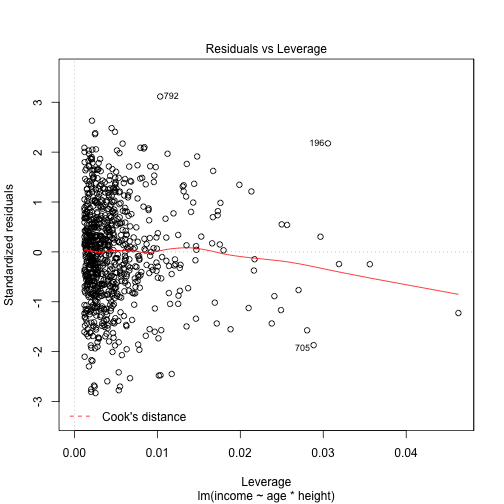
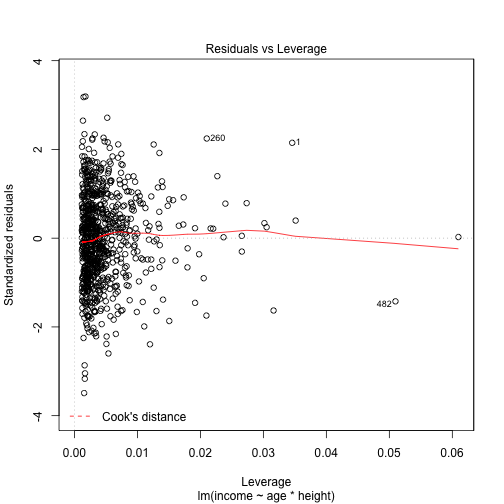
dunno

diff --git a/_sessions/StatisticsII/StatisticsII.html b/_sessions/StatisticsII/StatisticsII.html
@@ -275,7 +275,7 @@ lm(formula = income ~ age*height,
 ## 
 ## Coefficients:
 ## (Intercept)          age       height   age:height  
-##   -1268.853      196.356       12.301       -0.265
+##     27.1339     164.5202       4.2136      -0.0796
 ```
 
 &lt;br&gt;
@@ -288,7 +288,7 @@ lm(formula = income ~ age*height,
 ## 
 ## Coefficients:
 ## (Intercept)          age       height   age:height  
-##   -1268.853      196.356       12.301       -0.265
+##     27.1339     164.5202       4.2136      -0.0796
 ```
 
 
@@ -324,20 +324,20 @@ summary(my_lm)
 ## 
 ## Residuals:
 ##    Min     1Q Median     3Q    Max 
-##  -3410   -791     38    811   3737 
+##  -4177   -846      5    814   3819 
 ## 
 ## Coefficients:
 ##              Estimate Std. Error t value Pr(&gt;|t|)    
-## (Intercept) -1268.853   1673.777   -0.76     0.45    
-## age           196.356     34.301    5.72  1.5e-08 ***
-## height         12.301      9.752    1.26     0.21    
-## age:height     -0.265      0.200   -1.32     0.19    
+## (Intercept)   27.1339  1665.2478    0.02     0.99    
+## age          164.5202    34.4881    4.77  2.2e-06 ***
+## height         4.2136     9.7622    0.43     0.67    
+## age:height    -0.0796     0.2023   -0.39     0.69    
 ## ---
 ## Signif. codes:  0 '***' 0.001 '**' 0.01 '*' 0.05 '.' 0.1 ' ' 1
 ## 
-## Residual standard error: 1210 on 827 degrees of freedom
-## Multiple R-squared:  0.813,	Adjusted R-squared:  0.812 
-## F-statistic: 1.19e+03 on 3 and 827 DF,  p-value: &lt;2e-16
+## Residual standard error: 1200 on 840 degrees of freedom
+## Multiple R-squared:  0.799,	Adjusted R-squared:  0.799 
+## F-statistic: 1.12e+03 on 3 and 840 DF,  p-value: &lt;2e-16
 ```
 
 ]
@@ -388,7 +388,7 @@ my_lm$coefficients
 
 ```
 ## (Intercept)         age      height  age:height 
-##  -1268.8530    196.3558     12.3013     -0.2646
+##    27.13390   164.52019     4.21365    -0.07961
 ```
 
 ```r
@@ -397,15 +397,15 @@ my_lm$residuals
 ```
 
 ```
-##        1        2        3        4        5 
-##   747.26  -537.87  -227.70  1433.16   471.66 
-##        6        7        8        9       10 
-##  2040.59 -1666.15  -152.92   159.11 -1840.21 
-##       11       12       13       14       15 
-##  1184.20  2448.75   -39.81  -105.09  1093.26 
-##       16       17       18       19       20 
-##  -510.67 -1325.60   122.33  1328.86  -389.81 
-##  [ reached getOption("max.print") -- omitted 811 entries ]
+##         1         2         3         4         5 
+##  2528.268  -903.684  1372.656 -1324.612  -722.963 
+##         6         7         8         9        10 
+##  1224.138 -1378.356     3.574  -698.069 -2038.029 
+##        11        12        13        14        15 
+##  2653.648  1653.492   211.200  -524.399   216.216 
+##        16        17        18        19        20 
+##   886.419  -919.953   443.967  -364.201   743.919 
+##  [ reached getOption("max.print") -- omitted 824 entries ]
 ```
 
 ]
@@ -478,11 +478,11 @@ my_glm
 ## 
 ## Coefficients:
 ## (Intercept)          age       height   age:height  
-##   -1.82e+01    -1.25e-01     1.08e-01     7.03e-04  
+##   -2.13e+01    -3.77e-02     1.25e-01     2.07e-04  
 ## 
-## Degrees of Freedom: 830 Total (i.e. Null);  827 Residual
-## Null Deviance:	    1150 
-## Residual Deviance: 803 	AIC: 811
+## Degrees of Freedom: 843 Total (i.e. Null);  840 Residual
+## Null Deviance:	    1170 
+## Residual Deviance: 844 	AIC: 852
 ```
 
 ]
@@ -517,11 +517,11 @@ anova(my_an)
 ## Analysis of Variance Table
 ## 
 ## Response: income
-##                   Df   Sum Sq  Mean Sq F value Pr(&gt;F)
-## education          3 1.88e+07  6260609    0.81   0.49
-## height             1 5.61e+05   561337    0.07   0.79
-## education:height   3 3.21e+07 10703908    1.38   0.25
-## Residuals        823 6.36e+09  7732972
+##                   Df   Sum Sq Mean Sq F value Pr(&gt;F)
+## education          3 4.07e+06 1357301    0.19   0.90
+## height             1 4.45e+03    4451    0.00   0.98
+## education:height   3 2.18e+07 7282295    1.02   0.38
+## Residuals        836 5.98e+09 7148900
 ```
 
 ]
@@ -561,21 +561,21 @@ my_an
 ## 
 ## Coefficients:
 ##                       (Intercept)  
-##                          10414.51  
+##                           7143.28  
 ##        educationobligatory_school  
-##                          -8537.80  
+##                           -648.35  
 ##                   educationSEK_II  
-##                          -1895.94  
+##                          -7250.41  
 ##                  educationSEK_III  
-##                          -3098.55  
+##                           2048.89  
 ##                            height  
-##                            -16.07  
+##                              2.21  
 ## educationobligatory_school:height  
-##                             47.77  
+##                              2.75  
 ##            educationSEK_II:height  
-##                              8.35  
+##                             43.29  
 ##           educationSEK_III:height  
-##                             17.77
+##                            -12.42
 ```
 
 ]
@@ -619,30 +619,30 @@ summary(m)
 ## Formula: income ~ age * height + (1 | eyecor)
 ##    Data: baselers
 ## 
-## REML criterion at convergence: 14130
+## REML criterion at convergence: 14340
 ## 
 ## Scaled residuals: 
-##     Min      1Q  Median      3Q     Max 
-## -2.8274 -0.6559  0.0319  0.6721  3.0990 
+##    Min     1Q Median     3Q    Max 
+## -3.488 -0.706  0.004  0.680  3.189 
 ## 
 ## Random effects:
 ##  Groups   Name        Variance Std.Dev.
-##  eyecor   (Intercept) 3.20e-11 5.66e-06
-##  Residual             1.45e+06 1.21e+03
-## Number of obs: 831, groups:  eyecor, 2
+##  eyecor   (Intercept)       0     0    
+##  Residual             1433978  1197    
+## Number of obs: 844, groups:  eyecor, 2
 ## 
 ## Fixed effects:
 ##              Estimate Std. Error t value
-## (Intercept) -1268.853   1673.777   -0.76
-## age           196.356     34.301    5.72
-## height         12.301      9.752    1.26
-## age:height     -0.265      0.200   -1.32
+## (Intercept)   27.1339  1665.2478    0.02
+## age          164.5202    34.4881    4.77
+## height         4.2136     9.7622    0.43
+## age:height    -0.0796     0.2023   -0.39
 ## 
 ## Correlation of Fixed Effects:
 ##            (Intr) age    height
-## age        -0.942              
-## height     -0.997  0.940       
-## age:height  0.939 -0.997 -0.942
+## age        -0.940              
+## height     -0.997  0.938       
+## age:height  0.937 -0.997 -0.940
 ## fit warnings:
 ## Some predictor variables are on very different scales: consider rescaling
 ```
@@ -682,9 +682,9 @@ summary(my_bm)
 ```
 ## Bayes factor analysis
 ## --------------
-## [1] age          : 5.045e+298 ±0.01%
-## [2] height       : 0.08442    ±0%
-## [3] age + height : 1.044e+297 ±0%
+## [1] age          : 2.149e+291 ±0.01%
+## [2] height       : 0.07697    ±0.01%
+## [3] age + height : 4.665e+289 ±0%
 ## 
 ## Against denominator:
 ##   Intercept only 
@@ -721,7 +721,7 @@ my_lm
 ## 
 ## Coefficients:
 ## (Intercept)          age       height   age:height  
-##   -1268.853      196.356       12.301       -0.265
+##     27.1339     164.5202       4.2136      -0.0796
 ```
 
 
@@ -734,12 +734,12 @@ tidy(my_lm)
 
 ```
 ## # A tibble: 4 x 5
-##   term        estimate std.error statistic     p.value
-##   &lt;chr&gt;          &lt;dbl&gt;     &lt;dbl&gt;     &lt;dbl&gt;       &lt;dbl&gt;
-## 1 (Intercep… -1269.     1674.       -0.758     4.49e-1
-## 2 age          196.       34.3       5.72      1.45e-8
-## 3 height        12.3       9.75      1.26      2.08e-1
-## 4 age:height    -0.265     0.200    -1.32      1.86e-1
+##   term         estimate std.error statistic    p.value
+##   &lt;chr&gt;           &lt;dbl&gt;     &lt;dbl&gt;     &lt;dbl&gt;      &lt;dbl&gt;
+## 1 (Intercept)   27.1     1665.       0.0163 0.987     
+## 2 age          165.        34.5      4.77   0.00000217
+## 3 height         4.21       9.76     0.432  0.666     
+## 4 age:height    -0.0796     0.202   -0.393  0.694
 ```
 
 ]
@@ -750,7 +750,7 @@ tidy(my_lm)
 
 class: middle, center
 
-&lt;h1&gt;&lt;a href="https://therbootcamp.github.io/appliedML_2019Jan/_sessions/Models/Models_practical.html"&gt;Practical&lt;/a&gt;&lt;/h1&gt;
+&lt;h1&gt;&lt;a href="https://dwulff.github.io/Intro2R_Unibe/_sessions/StatisticsI/StatisticsI_practical.html"&gt;Practical&lt;/a&gt;&lt;/h1&gt;
     </textarea>
 <script src="https://remarkjs.com/downloads/remark-latest.min.js"></script>
 <script>var slideshow = remark.create({

diff --git a/_sessions/PlottingII/PlottingII.html b/_sessions/PlottingII/PlottingII.html
@@ -392,6 +392,64 @@ myplot +
 
 ]
 
+---
+
+# Axes: `theme()`
+
+.pull-left45[
+
+Change the &lt;high&gt;axes labels&lt;/high&gt; using the ` axis.title.x` and ` axis.title.y` arguments and `element_text(colour, size, lineend, ...)`.
+
+
+```r
+# change grid line color
+myplot + 
+  theme(
+    axis.title.x = 
+      element_text(family = "Comic Sans MS", 
+                   size = 3.5),
+    axis.title.y = 
+      element_text(family = "Comic Sans MS", 
+                   size = 3.5)
+    )
+```
+
+]
+
+
+.pull-right45[
+
+&lt;img src="PlottingII_files/figure-html/unnamed-chunk-23-1.png" style="display: block; margin: auto;" /&gt;
+
+]
+
+
+---
+
+# Options, Options, Options
+
+.pull.left45[
+
+### `theme()` arguments
+
+| Argument | Description |
+|:---|:-----------------------------|
+| `rename()` | Rename columns | 
+
+]
+
+.pull-right45[
+
+### `element_rect()` arguments
+
+| Argument | Description |
+|:---|:-----------------------------|
+| `rename()` | Rename columns | 
+
+### `element_rect()` arguments
+
+]
+
 
 ---
 
